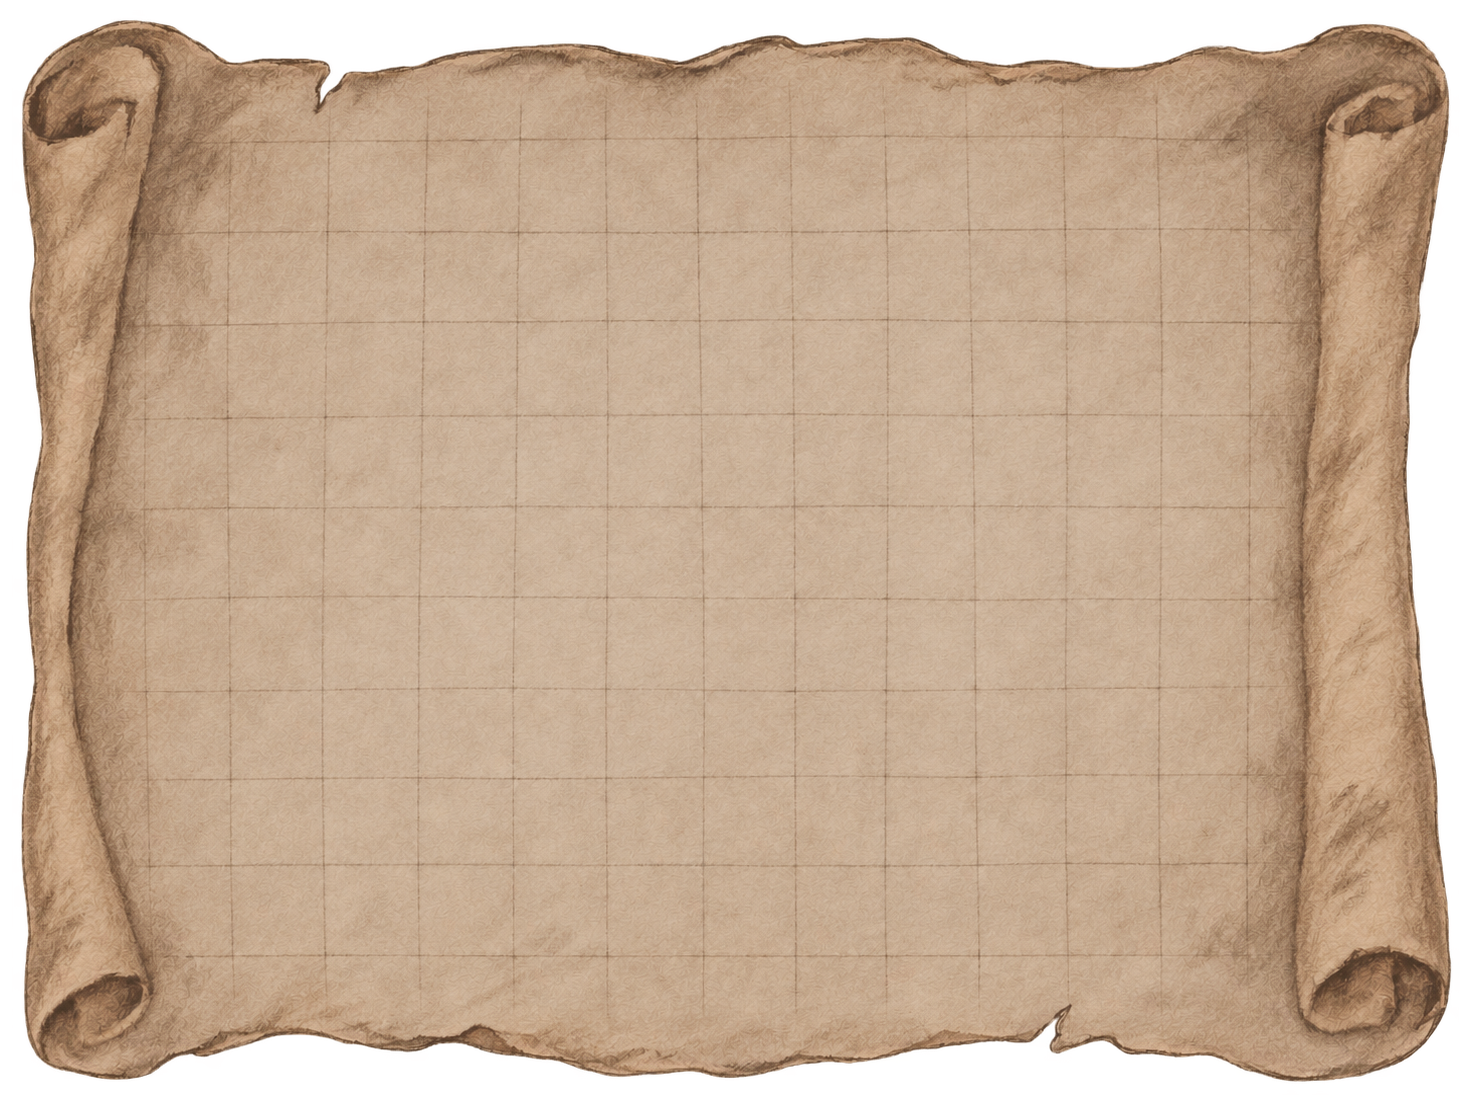
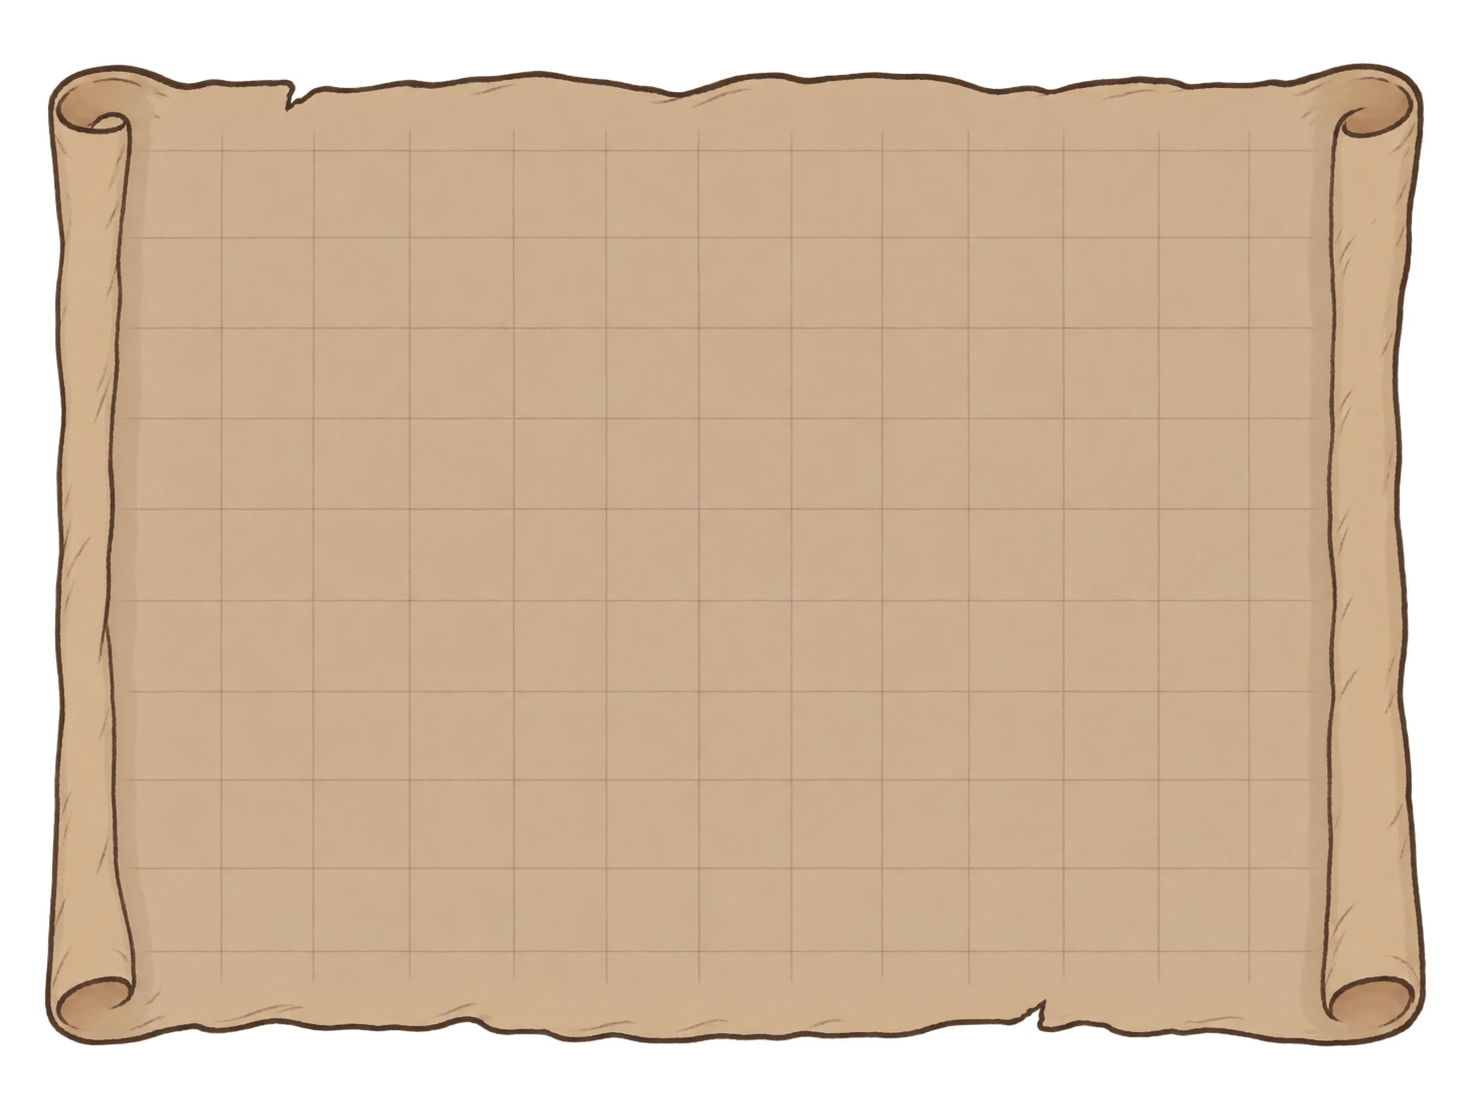
Outing map: one material for everything on the parchment, new parchment art
- Parchment, icons, ember twins, dashes, ring and cross share ONE runtime copy of the
  creatures' HandDrawnSprite material (its own pixel grid; the asset keeps the world
  grid). No more per-icon / per-cross material copies.
- New point blink = vertex alpha of the icon's ember twin, from the same atlas
  (atlas 1024x512: three icons + three ember versions, same sprite IDs kept).
- New parchment sprite from the user, darkened by 12%.

Claude-Session: https://claude.ai/code/session_011drgzc8FuUh9FFVp2JzWHB

Changed region(s): [[0.0, 0.0, 1.0, 0.9855]]

diff --git a/hukaton/Assets/Game/Runtime/OutingMap/OutingMap.cs b/hukaton/Assets/Game/Runtime/OutingMap/OutingMap.cs
@@ -19,8 +19,9 @@ namespace Hakaton.Game
     /// The map at the door. Shows the opened outing points on the charcoal parchment; a new point grows a short step
     /// away from the one it comes from, joined to it by a dashed route, and burns and blinks until clicked. Clicking a
     /// point opens its card: name, a small view, «Идти» / «Остаться». Escape, the right button or the cross steps back.
-    /// Everything on the parchment is drawn with the creatures' hand-drawn sprite material at a coarse pixel grid tied to
-    /// the parchment (so it looks the same at any resolution); opening sharpens the pixels from big blocks.
+    /// Everything on the parchment is drawn with ONE material: a runtime copy of the creatures' hand-drawn sprite material
+    /// whose pixel grid follows the parchment (the asset's grid is the world's, shared by every creature, so it is not
+    /// touched). The grid looks the same at any resolution; opening sharpens the pixels from big blocks.
     /// </summary>
     public sealed class OutingMap : MonoBehaviour
     {
@@ -30,6 +31,8 @@ namespace Hakaton.Game
             [Tooltip("Stable save key. Never rename after release.")] public string id;
             public OutingPlace place;
             public Sprite icon;
+            [Tooltip("The same drawing in ember: blinks over the icon while the point is new.")]
+            public Sprite emberIcon;
             public Sprite preview;
             [Tooltip("The point this one grows from (its route starts there). Empty: a root point at Home.")]
             public string parentId;
@@ -40,7 +43,6 @@ namespace Hakaton.Game
 
         static readonly int PixelsPerUnitId = Shader.PropertyToID("_PixelsPerUnit");
         static readonly int MaxRefineId = Shader.PropertyToID("_MaxRefine");
-        static readonly int SpriteUvRectId = Shader.PropertyToID("_SpriteUVRect");
 
         [Header("Authored parts")]
         [Tooltip("Switched off while the map is closed: nothing is drawn or raycast then.")]
@@ -92,7 +94,6 @@ namespace Hakaton.Game
         readonly Dictionary<string, OutingMapSiteView> views = new Dictionary<string, OutingMapSiteView>();
         readonly List<Image> pendingDashes = new List<Image>();
         readonly List<float> pendingAt = new List<float>();
-        readonly List<Material> pixelMaterials = new List<Material>();
         Material shared;
         Action<OutingPlace> chosen;
         Func<OutingPlace, string> nameOf;
@@ -111,10 +112,7 @@ namespace Hakaton.Game
             if (points) points.gameObject.SetActive(false);
         }
 
-        void OnDestroy()
-        {
-            foreach (var m in pixelMaterials) if (m) Destroy(m);
-        }
+        void OnDestroy() { if (shared) Destroy(shared); }
 
         static OutingMapSave NewState() => new OutingMapSave { seed = Environment.TickCount };
 
@@ -220,25 +218,11 @@ namespace Hakaton.Game
         void EnsureMaterials()
         {
             if (shared || !pixelMaterial) return;
-            shared = PixelCopy(null, "map");
-            if (paper) paper.material = shared;
-            if (closeButton && closeButton.targetGraphic is Image cross) cross.material = PixelCopy(cross.sprite, "cross");
-        }
-
-        /// <summary>A copy of the creature material at the map's grid; for an atlas sprite, framed on its own cell.</summary>
-        Material PixelCopy(Sprite sprite, string label)
-        {
-            var m = new Material(pixelMaterial) { name = pixelMaterial.name + " (" + label + ")" };
-            m.SetFloat(MaxRefineId, 0);
-            if (sprite && sprite.texture)
-            {
-                var r = sprite.textureRect;
-                float w = sprite.texture.width, h = sprite.texture.height;
-                m.SetVector(SpriteUvRectId, new Vector4(r.x / w, r.y / h, r.width / w, r.height / h));
-            }
-            pixelMaterials.Add(m);
+            shared = new Material(pixelMaterial) { name = pixelMaterial.name + " (outing map)" };
+            shared.SetFloat(MaxRefineId, 0);
             appliedPixel = -1;
-            return m;
+            if (paper) paper.material = shared;
+            if (closeButton && closeButton.targetGraphic) closeButton.targetGraphic.material = shared;
         }
 
         void DrawMissing(float delay)
@@ -284,14 +268,14 @@ namespace Hakaton.Game
                 var view = Instantiate(sitePrefab, points);
                 ((RectTransform)view.transform).anchoredPosition = Local(opened);
                 if (view.ring) view.ring.material = shared;
-                view.Bind(opened.id, site.icon, !opened.seen, appear, Pick, PixelCopy(site.icon, opened.id));
+                view.Bind(opened.id, site.icon, site.emberIcon, !opened.seen, appear, Pick, shared);
                 views[opened.id] = view;
             }
         }
 
         void ClearDrawing()
         {
-            foreach (var v in views.Values) if (v) { pixelMaterials.Remove(v.PixelMaterial); Destroy(v.gameObject); }
+            foreach (var v in views.Values) if (v) Destroy(v.gameObject);
             views.Clear();
             if (routes) foreach (Transform dash in routes) Destroy(dash.gameObject);
             pendingDashes.Clear(); pendingAt.Clear();
@@ -389,8 +373,7 @@ namespace Hakaton.Game
             float worldPerUnit = Mathf.Abs(sheet.lossyScale.x);
             if (Mathf.Approximately(units, appliedPixel) && Mathf.Approximately(worldPerUnit, appliedScale)) return;
             appliedPixel = units; appliedScale = worldPerUnit;
-            float ppu = 1f / Mathf.Max(units * worldPerUnit, 1e-4f);
-            foreach (var m in pixelMaterials) if (m) m.SetFloat(PixelsPerUnitId, ppu);
+            if (shared) shared.SetFloat(PixelsPerUnitId, 1f / Mathf.Max(units * worldPerUnit, 1e-4f));
         }
 
         void Show(float amount)

diff --git a/hukaton/Assets/Game/Runtime/OutingMap/OutingMapSiteView.cs b/hukaton/Assets/Game/Runtime/OutingMap/OutingMapSiteView.cs
@@ -7,19 +7,18 @@ namespace Hakaton.Game
 {
     /// <summary>
     /// One point on the outing map: the charcoal icon and the red ring when pointed at or chosen. A new point (until the
-    /// player clicks it for the first time) burns and blinks in the icon itself: the hand-drawn sprite material's tint
-    /// is pushed above white, so the dark ink flares to ember, and the drawing swells a little.
+    /// player clicks it for the first time) burns and blinks in the icon itself: its ember twin (the same drawing in
+    /// ember, from the same atlas) fades in over it, and the drawing swells a little. Everything uses the map's one
+    /// material; only vertex alpha changes.
     /// </summary>
     public sealed class OutingMapSiteView : MonoBehaviour, IPointerEnterHandler, IPointerExitHandler, IPointerClickHandler
     {
-        static readonly int ColorId = Shader.PropertyToID("_Color");
-        static readonly int SeedId = Shader.PropertyToID("_Seed");
 
         public Image icon;
+        [Tooltip("The ember twin of the icon, laid over it (child of the icon, same rect).")]
+        public Image ember;
         public Image ring;
         [Header("New point: burns and blinks")]
-        [Tooltip("Tint at the bright end of a blink. Above 1: the near-black ink is multiplied up into a glowing ember.")]
-        [ColorUsage(false, true)] public Color emberColor = new Color(4.5f, 1.9f, .45f, 1f);
         [Min(.1f)] public float blinkPeriod = .9f;
         [Range(0, 1)] public float flicker = .35f;
         [Tooltip("Icon scale at the dark and bright ends of a blink.")]
@@ -29,26 +28,18 @@ namespace Hakaton.Game
 
         public string Id { get; private set; }
         public bool IsNew { get; private set; }
-        /// <summary>This icon's own copy of the map's pixel material (its blink and its atlas cell).</summary>
-        public Material PixelMaterial => ownMaterial;
         Action<OutingMapSiteView> clicked;
         bool hovered, selected;
         float appearAt = -1, noiseSeed;
-        Material ownMaterial;
 
-        /// <param name="pixelMaterial">The map's pixel material, already framed on this sprite's atlas cell; the view owns it.</param>
-        public void Bind(string id, Sprite sprite, bool isNew, float appearDelay, Action<OutingMapSiteView> onClick, Material pixelMaterial)
+        /// <param name="pixelMaterial">The map's one pixel material (shared by everything on the parchment).</param>
+        public void Bind(string id, Sprite sprite, Sprite emberSprite, bool isNew, float appearDelay, Action<OutingMapSiteView> onClick, Material pixelMaterial)
         {
             Id = id;
             clicked = onClick;
-            if (icon) icon.sprite = sprite;
             noiseSeed = UnityEngine.Random.value * 100;
-            ownMaterial = pixelMaterial;
-            if (icon && ownMaterial)
-            {
-                ownMaterial.SetFloat(SeedId, noiseSeed);
-                icon.material = ownMaterial;
-            }
+            if (icon) { icon.sprite = sprite; icon.material = pixelMaterial; }
+            if (ember) { ember.sprite = emberSprite; ember.material = pixelMaterial; SetEmber(0); }
             SetNew(isNew);
             appearAt = Time.unscaledTime + appearDelay;
             transform.localScale = appearDelay > 0 ? Vector3.zero : Vector3.one;
@@ -59,7 +50,7 @@ namespace Hakaton.Game
         {
             IsNew = isNew;
             if (isNew) return;
-            if (ownMaterial) ownMaterial.SetColor(ColorId, Color.white);
+            SetEmber(0);
             if (icon) icon.rectTransform.localScale = Vector3.one;
         }
 
@@ -73,7 +64,12 @@ namespace Hakaton.Game
         }
 
         void OnDisable() { hovered = false; }
-        void OnDestroy() { if (ownMaterial) Destroy(ownMaterial); }
+        void SetEmber(float amount)
+        {
+            if (!ember) return;
+            ember.enabled = amount > 0 && ember.sprite;
+            var c = ember.color; c.a = amount; ember.color = c;
+        }
 
         void Refresh() { if (ring) ring.enabled = hovered || selected; }
 
@@ -93,7 +89,7 @@ namespace Hakaton.Game
             float blink = Mathf.SmoothStep(0, 1, .5f + .5f * Mathf.Cos(now * Mathf.PI * 2 / blinkPeriod));
             float noise = Mathf.PerlinNoise(noiseSeed, now * 7f);
             float heat = Mathf.Clamp01(blink * (1 - flicker + flicker * noise * 1.6f));
-            if (ownMaterial) ownMaterial.SetColor(ColorId, Color.LerpUnclamped(Color.white, emberColor, heat));
+            SetEmber(heat);
             if (icon) icon.rectTransform.localScale = Vector3.one * Mathf.Lerp(breath.x, breath.y, heat);
         }
     }

diff --git a/hukaton/Assets/Game/README.md b/hukaton/Assets/Game/README.md
@@ -6,7 +6,7 @@
 
 Новая игра начинается с пролога в пещере, затем учебная торговля с гоблином-партнёром (`Assets/Tutorial/README.md`). Дальше цикл: лавка → вылазка в Тихую лощину → возвращение с добычей → выкладка и торг → покупка и улучшение карт → следующая вылазка. Цель — **1000 монет суммарной выручки**; траты её не уменьшают. После поздравления (фанфары, конфетти, титр) игра продолжается свободно.
 
-- **Лавка.** Колесо выбирает товар, клик по слоту витрины выкладывает его, удержание заполняет свободные слоты, F забирает. E у прилавка открывает лавку. За занавеской: компьютер (колода, слияние карт, рука, лимит колоды), верёвка, опускающая гоблина-карточника, и жаровня (`Assets/Backroom/README.md`). Дверь открывает **карту вылазок** (`Prefabs/UI/Outing map.prefab`): клик по точке — окошко с названием, превью и кнопками «Идти» / «Остаться» (Enter / Escape, ПКМ — назад); красный крестик в углу пергамента закрывает карту. Открытие: пергамент проявляется из крупных пикселей и встаёт на место с лёгким перелётом, закрытие — обратно. Пергамент, иконки, пунктир и крестик рисуются копией материала существ `HandDrawnSprite` с сеткой карты (`Pixel Size` в единицах пергамента, одинаково на любом разрешении). Закрытая карта выключает свой Canvas: ничего не рисуется и не обновляется. До цели в 1000 выручки на карте только «Старая пасека»; после неё рядом вырастает точка «Неизведанные земли», соединённая пунктиром. Новая точка горит и мигает (сама иконка, через материал `HandDrawnSprite`), пока по ней не кликнут. Точки, их иконки, превью, родитель и условие появления — список `Sites` на `OutingMap`; где точка нарисована и видел ли её игрок — в сохранении (`map`). Затем — затемнение с титром локации.
+- **Лавка.** Колесо выбирает товар, клик по слоту витрины выкладывает его, удержание заполняет свободные слоты, F забирает. E у прилавка открывает лавку. За занавеской: компьютер (колода, слияние карт, рука, лимит колоды), верёвка, опускающая гоблина-карточника, и жаровня (`Assets/Backroom/README.md`). Дверь открывает **карту вылазок** (`Prefabs/UI/Outing map.prefab`): клик по точке — окошко с названием, превью и кнопками «Идти» / «Остаться» (Enter / Escape, ПКМ — назад); красный крестик в углу пергамента закрывает карту. Открытие: пергамент проявляется из крупных пикселей и встаёт на место с лёгким перелётом, закрытие — обратно. Пергамент, иконки, пунктир и крестик рисуются ОДНОЙ копией материала существ `HandDrawnSprite` с сеткой карты (сам ассет не трогаем: его сетка — мировая, общая для всех существ); мигание новой точки — альфа её «тлеющего» двойника из того же атласа (`Pixel Size` в единицах пергамента, одинаково на любом разрешении). Закрытая карта выключает свой Canvas: ничего не рисуется и не обновляется. До цели в 1000 выручки на карте только «Старая пасека»; после неё рядом вырастает точка «Неизведанные земли», соединённая пунктиром. Новая точка горит и мигает (сама иконка, через материал `HandDrawnSprite`), пока по ней не кликнут. Точки, их иконки, превью, родитель и условие появления — список `Sites` на `OutingMap`; где точка нарисована и видел ли её игрок — в сохранении (`map`). Затем — затемнение с титром локации.
 - **Торг.** Посетитель спрашивает цену или предлагает свою. 1–5 — назвать цену (старт, +5, +15, +25, +50%), Space/Enter — согласиться на его цену, Backspace — отказать. После каждого ответа посетитель «думает» (…), затем отвечает. Лицо, голос и цвет реплики показывают настроение. Терпение не выводится цифрами, его видно по реакции. Жадные цены тратят его быстрее, повтор той же цены тоже. На «последнем слове» любая новая цена — уход. Смена длится 120 с, пока лавка открыта; новая добыча восстанавливает время.
 - **Лощина.** Одна колода и одна рука: Импульс, Лёд, Огонь, Удар, Тяжёлый удар и Лечение вперемешку. Лёд замораживает озеро, огонь выжигает заросли, импульс подбрасывает игрока на уступ и расталкивает предметы и зверей. Звери рисованные: мирный грибной монстрик убегает, гоблин-псы нападают (один сторожит логово и сначала рычит), враждебные кусты подкарауливают у зарослей и за озером, почкующийся тролль стережёт восточный берег, сначала угрожает и бьёт по земле. Когда кончатся и колода, и карты в руке, появится «Пора домой»: бросок возвращает в лавку. Вернуться раньше — сбрасывать руку, пока не придёт эта карта. Поражение тоже возвращает, но с потерей половины добычи; карты и улучшения остаются.
 
